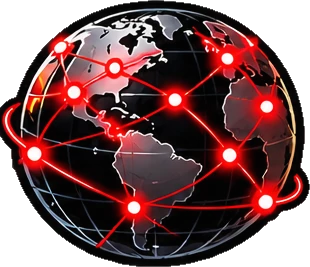
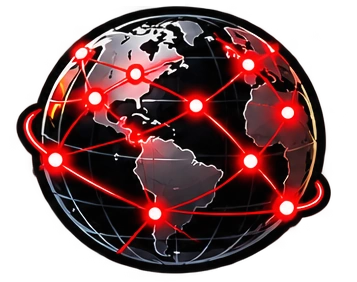
Seriell: Fotos früher/heute, neue Bildelemente, Übungen zu I²C und SPI
- Fotogalerie LPT, Druckerkabel, USB, IDE, SATA, PCI/PCIe von
  Wikimedia Commons mit Urheber und Lizenz
- Neue Bildelemente (Schilder, Stecker, Bits, Lanes, Takt, Nachrichten)
  samt Quellbögen
- PulseView-Mitschnitte vom Arbeitsblatt mit Aufgaben bei UART, I²C und SPI
- Lückentext zu den Formaten, Telegramm-Aufgabe, ASCII-Tabelle mit LF/CR
- Überarbeitete Bilder Globus, Ninja und Schloss

diff --git a/index.html b/index.html
@@ -85,7 +85,7 @@
     <!-- ============================ SERIELL 1 ============================ -->
     <section id="ser-grundlagen" class="page" data-theme="seriell">
       <header class="page-head">
-        <img class="head-art" src="assets/images/el-rolle.webp" alt="">
+        <div class="sr-head-pair" aria-hidden="true"><img src="assets/images/el-seriell-schild.webp" alt=""><img src="assets/images/el-parallel-schild.webp" alt=""></div>
         <p class="eyebrow">Seriell · Station 1 · Grundlagen</p>
         <h1>Seriell und parallel</h1>
         <p class="lead">Lange bevor es Netzwerke gab, wollte man zwei Geräte miteinander reden lassen: einen Computer mit einem Drucker, einem Modem oder einem Terminal. Dafür gibt es zwei Grundideen – die Bits <b>nacheinander</b> über eine Leitung schicken oder <b>gleichzeitig</b> über viele Leitungen. Von hier aus geht die Reise bis zum Ethernet.</p>
@@ -111,12 +111,14 @@
         <h2>Vor- und Nachteile</h2>
         <div class="two-col">
           <div class="mini-card">
+            <img class="sr-mc-art" src="assets/images/el-seriell.webp" alt="">
             <h3>Serielle Schnittstelle</h3>
             <p><b>Prinzip:</b> Die Bits werden <b>nacheinander</b> über eine Datenleitung (je Richtung) übertragen.</p>
             <p><b>Vorteile:</b> wenige Adern, dünne und billige Kabel, kleine Stecker, große Entfernungen möglich, kein Gleichlauf-Problem zwischen den Leitungen. Schnelle serielle Verbindungen sind außerdem <b>störfest</b>: Sie senden über ein verdrilltes Adernpaar, bei dem sich Störungen weitgehend aufheben, sichern die Daten mit Prüfsummen und senden Fehlerhaftes einfach neu.</p>
             <p><b>Nachteile:</b> Bei gleichem Takt braucht ein Zeichen mehrere Takte; die Bits müssen beim Sender in eine Reihe gebracht und beim Empfänger wieder zusammengesetzt werden (Schieberegister).</p>
           </div>
           <div class="mini-card">
+            <img class="sr-mc-art" src="assets/images/el-parallel.webp" alt="">
             <h3>Parallele Schnittstelle</h3>
             <p><b>Prinzip:</b> Mehrere Bits werden <b>gleichzeitig</b> über eigene Leitungen übertragen – z. B. 8 Bit auf 8 Leitungen.</p>
             <p><b>Vorteile:</b> Bei gleichem Takt ist ein ganzes Zeichen in einem Takt übertragen; einfache Elektronik.</p>
@@ -124,17 +126,54 @@
           </div>
         </div>
         <p class="callout"><b>Darum hat seriell gewonnen:</b> Eine einzelne Leitung lässt sich viel schneller takten als ein ganzes Bündel, das im Gleichschritt bleiben muss. USB, SATA, PCI Express, HDMI und Ethernet sind deshalb alle <b>seriell</b> – und schneller als ihre parallelen Vorgänger.</p>
-        <div class="tbl-wrap">
-          <table class="tbl compact">
-            <thead><tr><th>früher parallel</th><th>heute seriell</th></tr></thead>
-            <tbody>
-              <tr><td>Druckerschnittstelle LPT (Centronics, 25-polig)</td><td>USB</td></tr>
-              <tr><td>Festplatten über PATA/IDE (40 oder 80 Adern)</td><td>SATA, NVMe über PCI Express</td></tr>
-              <tr><td>Steckkarten über PCI (32 Bit breit)</td><td>PCI Express</td></tr>
-              <tr><td>Bildschirm über VGA (analog, je Farbe eine Leitung)</td><td>HDMI, DisplayPort</td></tr>
-            </tbody>
-          </table>
+        <h3 class="sub-h">So sah das aus: früher parallel – heute seriell</h3>
+        <p>Klicke ein Foto an, um es groß zu sehen.</p>
+        <div class="sr-gal">
+        <div class="sr-pair">
+          <h4>Drucker</h4>
+          <div class="sr-pair-row">
+            <figure class="sr-foto old">
+              <a href="assets/images/foto-lpt.webp" target="_blank" rel="noopener"><img src="assets/images/foto-lpt.webp" alt="25-polige LPT-Buchse an einem PC" width="640" height="480" loading="lazy"></a>
+              <figcaption><span class="sr-tags"><span class="sr-tag old">früher parallel</span></span><span class="sr-cap"><b>LPT-Buchse</b> am PC: 25 Pins, davon 8 Datenleitungen – höchstens etwa 2 MB/s.</span><small class="sr-credit">Foto: <a href="https://commons.wikimedia.org/wiki/File:Parallel_computer_printer_port.jpg" target="_blank" rel="noopener">Duncan Lithgow</a> · gemeinfrei · Wikimedia Commons</small></figcaption>
+            </figure>
+            <figure class="sr-foto old">
+              <a href="assets/images/foto-druckerkabel.webp" target="_blank" rel="noopener"><img src="assets/images/foto-druckerkabel.webp" alt="Druckerkabel mit 25-poligem Stecker und 36-poligem Centronics-Stecker" width="640" height="360" loading="lazy"></a>
+              <figcaption><span class="sr-tags"><span class="sr-tag old">früher parallel</span></span><span class="sr-cap"><b>Druckerkabel:</b> links der 25-polige Stecker für den PC, rechts der 36-polige <b>Centronics</b>-Stecker für den Drucker.</span><small class="sr-credit">Foto: <a href="https://commons.wikimedia.org/wiki/File:IEEE_1284_printer_cable,_type_AB-0135.jpg" target="_blank" rel="noopener">Raimond Spekking</a> · <a href="https://creativecommons.org/licenses/by-sa/4.0/deed.de" target="_blank" rel="noopener">CC BY-SA 4.0</a> · Wikimedia Commons</small></figcaption>
+            </figure>
+            <figure class="sr-foto new">
+              <a href="assets/images/foto-usb.webp" target="_blank" rel="noopener"><img src="assets/images/foto-usb.webp" alt="Anschlüsse an einem Laptop, rechts drei USB-Buchsen" width="640" height="356" loading="lazy"></a>
+              <figcaption><span class="sr-tags"><span class="sr-tag new">heute seriell</span></span><span class="sr-cap"><b>USB</b> (rechts im Bild): 4 Kontakte, die Daten laufen über ein einziges Adernpaar – mit USB 2.0 schon 480 Mbit/s.</span><small class="sr-credit">Foto: <a href="https://commons.wikimedia.org/wiki/File:Interfaces_on_left_side_of_Lenovo_ThinkPad_T410_laptop_-_VGA_connector,_Ethernet_port,_Display_port,_three_USB_2.0_ports_(cropped).jpg" target="_blank" rel="noopener">Pittigrilli</a> · <a href="https://creativecommons.org/publicdomain/zero/1.0/deed.de" target="_blank" rel="noopener">CC0</a> · Wikimedia Commons</small></figcaption>
+            </figure>
+          </div>
         </div>
+        <div class="sr-pair">
+          <h4>Festplatte</h4>
+          <div class="sr-pair-row">
+            <figure class="sr-foto old">
+              <a href="assets/images/foto-ide.webp" target="_blank" rel="noopener"><img src="assets/images/foto-ide.webp" alt="Zwei IDE-Flachbandkabel mit 40-poligen Steckern" width="640" height="845" loading="lazy" style="object-position:50% 30%"></a>
+              <figcaption><span class="sr-tags"><span class="sr-tag old">früher parallel</span></span><span class="sr-cap"><b>IDE-Flachbandkabel</b> (PATA) mit 40-poligen Steckern: links 80 Adern, rechts 40 Adern. Bei den schnelleren 80-adrigen Kabeln liegt zwischen den Signaladern je eine Masseader – gegen das Übersprechen. Höchstens 133 MB/s.</span><small class="sr-credit">Foto: <a href="https://commons.wikimedia.org/wiki/File:IDE_cable_40_pin_%26_80_pin.jpg" target="_blank" rel="noopener">Smial</a> · <a href="https://creativecommons.org/licenses/by-sa/2.0/de/" target="_blank" rel="noopener">CC BY-SA 2.0 DE</a> · Wikimedia Commons</small></figcaption>
+            </figure>
+            <figure class="sr-foto new">
+              <a href="assets/images/foto-sata.webp" target="_blank" rel="noopener"><img src="assets/images/foto-sata.webp" alt="Festplatte mit angestecktem SATA-Daten- und Stromkabel" width="640" height="583" loading="lazy" style="object-position:50% 80%"></a>
+              <figcaption><span class="sr-tags"><span class="sr-tag new">heute seriell</span></span><span class="sr-cap"><b>SATA</b>: Das schmale rote Kabel trägt die Daten, nur 7 Kontakte – und schafft bis 600 MB/s. Der breite Stecker daneben ist der Strom.</span><small class="sr-credit">Foto: <a href="https://commons.wikimedia.org/wiki/File:Serial_ATA_hard_disk_connected.jpg" target="_blank" rel="noopener">Thomas Rosenau</a> · <a href="https://creativecommons.org/licenses/by-sa/2.5/deed.de" target="_blank" rel="noopener">CC BY-SA 2.5</a> · Wikimedia Commons</small></figcaption>
+            </figure>
+            <figure class="sr-foto new">
+              <a href="assets/images/foto-sata-innen.webp" target="_blank" rel="noopener"><img src="assets/images/foto-sata-innen.webp" alt="Aufgeschnittenes SATA-Kabel mit zwei abgeschirmten Adernpaaren" width="640" height="960" loading="lazy" style="object-position:50% 20%"></a>
+              <figcaption><span class="sr-tags"><span class="sr-tag new">heute seriell</span></span><span class="sr-cap"><b>SATA-Kabel aufgeschnitten:</b> Innen stecken nur zwei abgeschirmte Adernpaare – eins pro Richtung – und drei Masseadern.</span><small class="sr-credit">Foto: <a href="https://commons.wikimedia.org/wiki/File:Serial_ATA_cable_cut_off_to_show_the_inside.jpg" target="_blank" rel="noopener">Tobias Maier</a> · <a href="https://creativecommons.org/licenses/by-sa/3.0/deed.de" target="_blank" rel="noopener">CC BY-SA 3.0</a> · Wikimedia Commons</small></figcaption>
+            </figure>
+          </div>
+        </div>
+        <div class="sr-pair">
+          <h4>Steckkarten</h4>
+          <div class="sr-pair-row">
+            <figure class="sr-foto old new">
+              <a href="assets/images/foto-pci-pcie.webp" target="_blank" rel="noopener"><img src="assets/images/foto-pci-pcie.webp" alt="Mainboard mit PCIe-x1-, PCIe-x16- und zwei PCI-Steckplätzen" width="640" height="480" loading="lazy"></a>
+              <figcaption><span class="sr-tags"><span class="sr-tag old">früher parallel</span> <span class="sr-tag new">heute seriell</span></span><span class="sr-cap">Beide auf einem Mainboard: unten zwei weiße <b>PCI</b>-Steckplätze (32 Bit parallel, 133 MB/s für alle Karten zusammen), oben gelb <b>PCIe x1</b> und <b>PCIe x16</b> mit 1 bzw. 16 seriellen Lanes.</span><small class="sr-credit">Foto: <a href="https://commons.wikimedia.org/wiki/File:PCI_und_PCIe_Slots.jpg" target="_blank" rel="noopener">Smial</a> · <a href="https://creativecommons.org/licenses/by-sa/2.0/de/" target="_blank" rel="noopener">CC BY-SA 2.0 DE</a> · Wikimedia Commons</small></figcaption>
+            </figure>
+          </div>
+        </div>
+        </div>
+        <p class="note">Die Fotos stammen von Wikimedia Commons und wurden für diese Seite verkleinert. Urheber und Lizenz stehen jeweils unter dem Bild.</p>
         <h3 class="sub-h">Wo ist parallel heute noch im Einsatz?</h3>
         <p>Fast nur noch auf <b>sehr kurzen Wegen innerhalb eines Geräts</b>, wo man die Leiterbahnen genau gleich lang verlegen kann:</p>
         <div class="tbl-wrap">
@@ -151,6 +190,7 @@
           </table>
         </div>
         <p class="note">Beim Arbeitsspeicher hilft noch mehr: Jede Gruppe von 8 Datenbits bekommt ein eigenes Taktsignal mit (DQS), und beim Einschalten misst der Speichercontroller die Laufzeit jeder einzelnen Leitung und gleicht sie aus.</p>
+        <img class="sr-sub-art" src="assets/images/el-lanes.webp" alt="">
         <h3 class="sub-h">Parallel genutzt, aber seriell: Lanes</h3>
         <p>PCI Express x16, Thunderbolt oder 100-Gbit-Ethernet nutzen mehrere <b>Lanes</b> gleichzeitig nebeneinander – man spricht deshalb auch von <b>parallel genutzten seriellen Lanes</b>. Als Schnittstelle gelten sie trotzdem als <b>seriell</b>. Der Unterschied liegt darin, wie die Bits zusammengehalten werden:</p>
         <div class="two-col">
@@ -237,7 +277,7 @@
     <!-- ============================ SERIELL 2 ============================ -->
     <section id="ser-rs232" class="page" data-theme="seriell">
       <header class="page-head">
-        <img class="head-art" src="assets/images/el-kabel.webp" alt="">
+        <img class="head-art" src="assets/images/el-seriell.webp" alt="">
         <p class="eyebrow">Seriell · Station 2 · Interaktiv</p>
         <h1>RS-232</h1>
         <p class="lead"><b>RS-232</b> (heute TIA-232) legt fest, wie eine serielle Verbindung elektrisch aussieht: welche Spannungen, welche Leitungen, welcher Stecker. Am PC hieß sie <b>COM-Schnittstelle</b>. Heute steckt sie noch in Maschinen, Messgeräten und SPS – und als <b>Konsolen-Anschluss</b> an Switches und Routern.</p>
@@ -318,7 +358,7 @@
     <!-- ============================ SERIELL 3 ============================ -->
     <section id="ser-uart" class="page" data-theme="seriell">
       <header class="page-head">
-        <img class="head-art" src="assets/images/el-leitungscode.webp" alt="">
+        <img class="head-art" src="assets/images/el-bits-seriell.webp" alt="">
         <p class="eyebrow">Seriell · Station 3 · Interaktiv</p>
         <h1>Das UART-Telegramm</h1>
         <p class="lead">Der <b>UART</b> (Universal Asynchronous Receiver Transmitter) ist der Baustein, der ein Byte in eine Reihe von Bits verwandelt und beim Empfänger wieder zusammensetzt. Fast jeder Mikrocontroller hat einen eingebaut. „Asynchron“ heißt: Es gibt <b>keine Taktleitung</b> – das Startbit sagt dem Empfänger, wann es losgeht.</p>
@@ -375,7 +415,8 @@
         <p class="note">Die Parität erkennt jeden <b>einzelnen</b> Bitfehler – kippen zwei Bits, passt die Zahl der Einsen wieder und der Fehler bleibt unentdeckt. Korrigieren kann sie nichts: Der Empfänger weiß nur, <i>dass</i> etwas falsch ist, nicht <i>welches</i> Bit.</p>
       </article>
 
-      <article class="card">
+      <article class="card has-art">
+        <img class="card-art" src="assets/images/el-taktperiode.webp" alt="">
         <h2>Übungen vom Arbeitsblatt</h2>
         <p class="sr-ws-task"><b>Aufgabe 1:</b> Ein Datentelegramm besteht aus 16 Datenbits, 2 Stoppbits, 1 Paritätsbit und einem Startbit. Wie viele Telegramme können bei <b>57 600 Baud</b> pro Sekunde übertragen werden?</p>
         <details class="v6-more"><summary>Lösung Aufgabe 1</summary>
@@ -396,7 +437,7 @@
     <!-- ============================ SERIELL 4 ============================ -->
     <section id="ser-i2c" class="page" data-theme="seriell">
       <header class="page-head">
-        <img class="head-art" src="assets/images/el-topo-rolle.webp" alt="">
+        <img class="head-art" src="assets/images/el-takt.webp" alt="">
         <p class="eyebrow">Seriell · Station 4 · Interaktiv</p>
         <h1>I²C – Adressen auf zwei Drähten</h1>
         <p class="lead"><b>I²C</b> (Inter-Integrated Circuit, gesprochen „I-Quadrat-C“) hat Philips 1982 entwickelt, um viele Chips auf einer Platine zu verbinden. Zwei Leitungen reichen für alle: Jeder Teilnehmer hat eine eigene <b>Adresse</b>. Und weil eine Leitung den <b>Takt</b> trägt, arbeitet I²C <b>synchron</b>.</p>
@@ -462,7 +503,7 @@
     <!-- ============================ SERIELL 5 ============================ -->
     <section id="ser-spi" class="page" data-theme="seriell">
       <header class="page-head">
-        <img class="head-art" src="assets/images/el-server.webp" alt="">
+        <img class="head-art wide" src="assets/images/el-nachrichten.webp" alt="">
         <p class="eyebrow">Seriell · Station 5 · Interaktiv</p>
         <h1>SPI und der Weg zum Netz</h1>
         <p class="lead">Das <b>Serial Peripheral Interface</b> (SPI) stammt von Motorola. Es verwendet <b>vier Leitungen</b>, arbeitet synchron und vollduplex und schafft je nach Chip einige bis über 50 Mbit/s. Statt Adressen gibt es eine eigene Leitung, die einen Teilnehmer auswählt.</p>
@@ -2863,7 +2904,7 @@ Ablaufverfolgung beendet.</pre>
 
   <footer class="site-footer">
     <img class="footer-art" src="assets/images/el-bonsai.webp" alt="">
-    <p>Quellen: <a href="https://www.rfc-editor.org/info/rfc791/" target="_blank" rel="noopener">RFC 791</a> (Internet Protocol, 1981) · <a href="https://www.rfc-editor.org/info/rfc950/" target="_blank" rel="noopener">RFC 950</a> (Subnetting, 1985) · <a href="https://www.rfc-editor.org/info/rfc4632/" target="_blank" rel="noopener">RFC 4632</a> (CIDR) · <a href="https://www.rfc-editor.org/info/rfc1918/" target="_blank" rel="noopener">RFC 1918</a> (Private Adressen, 1996) · <a href="https://www.rfc-editor.org/info/rfc3927/" target="_blank" rel="noopener">RFC 3927</a> (APIPA/Link-Local) · <a href="https://www.rfc-editor.org/info/rfc6890/" target="_blank" rel="noopener">RFC 6890</a> (Besondere Adressbereiche) · <a href="https://www.rfc-editor.org/info/rfc2131/" target="_blank" rel="noopener">RFC 2131</a> (DHCP) · <a href="https://www.rfc-editor.org/info/rfc1034/" target="_blank" rel="noopener">RFC 1034</a> (DNS) · <a href="https://www.rfc-editor.org/info/rfc3986/" target="_blank" rel="noopener">RFC 3986</a> (URI) · <a href="https://www.rfc-editor.org/info/rfc6335/" target="_blank" rel="noopener">RFC 6335</a> (Portbereiche) · <a href="https://www.rfc-editor.org/info/rfc8446/" target="_blank" rel="noopener">RFC 8446</a> (TLS 1.3) · <a href="https://www.nxp.com/docs/en/user-guide/UM10204.pdf" target="_blank" rel="noopener">NXP UM10204</a> (I²C-Spezifikation) · TIA-232-F (serielle Schnittstelle)</p>
+    <p>Quellen: <a href="https://www.rfc-editor.org/info/rfc791/" target="_blank" rel="noopener">RFC 791</a> (Internet Protocol, 1981) · <a href="https://www.rfc-editor.org/info/rfc950/" target="_blank" rel="noopener">RFC 950</a> (Subnetting, 1985) · <a href="https://www.rfc-editor.org/info/rfc4632/" target="_blank" rel="noopener">RFC 4632</a> (CIDR) · <a href="https://www.rfc-editor.org/info/rfc1918/" target="_blank" rel="noopener">RFC 1918</a> (Private Adressen, 1996) · <a href="https://www.rfc-editor.org/info/rfc3927/" target="_blank" rel="noopener">RFC 3927</a> (APIPA/Link-Local) · <a href="https://www.rfc-editor.org/info/rfc6890/" target="_blank" rel="noopener">RFC 6890</a> (Besondere Adressbereiche) · <a href="https://www.rfc-editor.org/info/rfc2131/" target="_blank" rel="noopener">RFC 2131</a> (DHCP) · <a href="https://www.rfc-editor.org/info/rfc1034/" target="_blank" rel="noopener">RFC 1034</a> (DNS) · <a href="https://www.rfc-editor.org/info/rfc3986/" target="_blank" rel="noopener">RFC 3986</a> (URI) · <a href="https://www.rfc-editor.org/info/rfc6335/" target="_blank" rel="noopener">RFC 6335</a> (Portbereiche) · <a href="https://www.rfc-editor.org/info/rfc8446/" target="_blank" rel="noopener">RFC 8446</a> (TLS 1.3) · <a href="https://www.nxp.com/docs/en/user-guide/UM10204.pdf" target="_blank" rel="noopener">NXP UM10204</a> (I²C-Spezifikation) · TIA-232-F (serielle Schnittstelle) · Fotos der Stecker: Wikimedia Commons, Urheber und Lizenz am jeweiligen Bild</p>
     <p>Netzwerktechnik-Dojo · Jakob-Preh-Schule · statische HTML-Seite, läuft komplett im Browser – keine Daten werden übertragen, keine externen Dienste geladen.</p>
   </footer>
 

diff --git a/assets/style.css b/assets/style.css
@@ -1930,3 +1930,33 @@ td.kr-no { color: var(--host); font-weight: 600; }
 .sr-pv-nack { fill: color-mix(in srgb, var(--err) 30%, var(--surface)); stroke: var(--err); stroke-width: 1; }
 .sr-pv-mosi { fill: color-mix(in srgb, var(--accent) 22%, var(--surface)); stroke: var(--accent); stroke-width: 1; }
 .sr-ws-intro { margin-top: 1.4rem; }
+/* Fotos früher parallel – heute seriell */
+.sr-gal { display: grid; gap: 1.2rem; margin: .6rem 0 .4rem; }
+.sr-pair h4 { margin: 0 0 .5rem; font: 700 14px var(--display); }
+.sr-pair-row { display: grid; grid-template-columns: repeat(auto-fit, minmax(220px, 1fr)); gap: 12px; }
+.sr-foto { margin: 0; background: var(--surface-2); border-radius: 10px; overflow: hidden; display: flex; flex-direction: column; }
+.sr-foto.old { box-shadow: inset 0 3px 0 var(--accent-2); }
+.sr-foto.new { box-shadow: inset 0 3px 0 var(--net); }
+.sr-foto.old.new { box-shadow: none; grid-column: 1 / -1; }
+.sr-foto > a { display: block; line-height: 0; }
+.sr-foto img { width: 100%; height: 200px; object-fit: cover; display: block; background: #fff; }
+.sr-foto.old.new img { height: auto; max-height: 420px; object-fit: contain; }
+.sr-foto figcaption { padding: .55rem .8rem .7rem; font-size: 13.5px; line-height: 1.5; display: flex; flex-direction: column; gap: .25rem; flex: 1; }
+.sr-tag { align-self: flex-start; font: 600 10px var(--mono); text-transform: uppercase; letter-spacing: .06em; border-radius: 5px; padding: 1px 7px; margin-right: 4px; display: inline-block; }
+.sr-tag.old { background: color-mix(in srgb, var(--accent-2) 22%, var(--surface)); color: var(--accent-2); }
+.sr-tag.new { background: var(--info-bg); color: var(--net); }
+.sr-foto.old.new figcaption .sr-tag { align-self: auto; }
+.sr-credit { margin-top: auto; padding-top: .3rem; font-size: 11px; color: var(--muted); }
+.sr-credit a { color: inherit; }
+.sr-tags { display: flex; flex-wrap: wrap; gap: 4px; }
+.sr-tags .sr-tag { margin: 0; }
+.sr-foto.old.new img { background: transparent; }
+.sr-sub-art { float: right; height: 96px; width: auto; margin: 1rem 0 6px 16px; }
+@media (max-width: 600px) { .sr-sub-art { height: 64px; } }
+.sr-head-pair { position: absolute; right: 0; top: 18px; display: flex; align-items: flex-end; gap: 10px; pointer-events: none; }
+.sr-head-pair img { height: 118px; width: auto; }
+@media (max-width: 1120px) { .sr-head-pair { position: static; justify-content: center; margin: 0 0 .6rem; } .sr-head-pair img { height: 110px; } }
+@media (max-width: 600px) { .sr-head-pair img { height: 84px; } }
+.sr-mc-art { float: right; height: 84px; width: auto; margin: -4px -4px 6px 12px; }
+@media (max-width: 600px) { .sr-mc-art { height: 64px; } }
+.head-art.wide { height: 100px; top: 40px; }

diff --git a/README.md b/README.md
@@ -17,7 +17,7 @@ pro Sekunde, nur bei zwei Pegeln gleich Bit/s.
 
 | # | Station | Inhalt |
 |---|---------|--------|
-| 1 | Seriell & parallel | Ein Zeichen seriell und parallel Takt für Takt, Laufzeitunterschiede bei hohem Takt, Vor- und Nachteile, früher parallel/heute seriell, uni- und bidirektional, Bus am Beispiel KNX und was ein Bus regeln muss, Zeitleiste |
+| 1 | Seriell & parallel | Ein Zeichen seriell und parallel Takt für Takt, Laufzeitunterschiede bei hohem Takt, Vor- und Nachteile, Fotos früher parallel/heute seriell (LPT, Druckerkabel, USB, IDE, SATA, PCI/PCIe), wo parallel heute noch steckt, Lanes, uni- und bidirektional, Bus am Beispiel KNX und was ein Bus regeln muss, Zeitleiste |
 | 2 | RS-232 | DE-9-Stecker mit klickbaren Pins (Datenleitungen 2, 3, 5), Pegel UART gegen RS-232, Nullmodem und 1:1-Kabel, Formatkürzel wie 8N1, Baud |
 | 3 | UART-Telegramm | UART vs. RS-232, Telegramm-Baukasten (Datenbits, Parität, Stoppbits, Baudrate) mit Bitzeit und Telegrammen pro Sekunde, MSB/LSB, Paritätsbit mit Störungs-Simulation, Übungen vom Arbeitsblatt: Telegramme pro Sekunde, Mitschnitte im Stil von PulseView (Baudrate aus 104 µs, „a?“ / „ok“ dekodieren) |
 | 4 | I²C | Bus mit Pull-ups und Teilnehmern, Adressierung als SCL/SDA-Signal mit ACK/NACK, Übung zum PulseView-Mitschnitt vom Arbeitsblatt (0x08, NACK, Datenrate aus 10 µs), 112 Adressen, Geschwindigkeiten |
@@ -186,7 +186,8 @@ assets/ipv6.js        IPv6-Rechenkern (parsen, kürzen, Typ, Präfix, EUI-64)
 assets/ipv6-stationen.js  IPv6 Stationen 1–4
 assets/ipv6-dojo.js   IPv6 Station 5
 assets/images/        Gürtelbilder aus Netzwerkkabel (guertel-<farbe>.png), Dojo-Tor als Rahmen
-                      (rahmen.webp) und Illustrationen der Stationen (el-*.webp)
+                      (rahmen.webp), Illustrationen der Stationen (el-*.webp) und Fotos von
+                      Wikimedia Commons (foto-*.webp, siehe Quellen)
 assets/images/tor/    Einzelteile des Seitenrahmens und Blütenblätter
 ```
 
@@ -211,3 +212,17 @@ Das Schullogo (`assets/jps-logo.png`) gehört der Jakob-Preh-Schule.
 - [RFC 8446](https://www.rfc-editor.org/info/rfc8446/) – TLS 1.3
 - [NXP UM10204](https://www.nxp.com/docs/en/user-guide/UM10204.pdf) – I²C-Bus Specification and User Manual
 - TIA-232-F – Interface Between Data Terminal Equipment and Data Circuit-Terminating Equipment
+
+### Fotos (Wikimedia Commons, für die Seite verkleinert)
+
+| Datei | Original | Urheber | Lizenz |
+|---|---|---|---|
+| foto-lpt.webp | [Parallel computer printer port.jpg](https://commons.wikimedia.org/wiki/File:Parallel_computer_printer_port.jpg) | Duncan Lithgow | gemeinfrei |
+| foto-druckerkabel.webp | [IEEE 1284 printer cable, type AB-0135.jpg](https://commons.wikimedia.org/wiki/File:IEEE_1284_printer_cable,_type_AB-0135.jpg) | Raimond Spekking | CC BY-SA 4.0 |
+| foto-usb.webp | [Interfaces on left side of Lenovo ThinkPad T410 laptop … (cropped).jpg](https://commons.wikimedia.org/wiki/File:Interfaces_on_left_side_of_Lenovo_ThinkPad_T410_laptop_-_VGA_connector,_Ethernet_port,_Display_port,_three_USB_2.0_ports_(cropped).jpg) | Pittigrilli | CC0 |
+| foto-ide.webp | [IDE cable 40 pin & 80 pin.jpg](https://commons.wikimedia.org/wiki/File:IDE_cable_40_pin_%26_80_pin.jpg) | Smial | CC BY-SA 2.0 DE |
+| foto-sata.webp | [Serial ATA hard disk connected.jpg](https://commons.wikimedia.org/wiki/File:Serial_ATA_hard_disk_connected.jpg) | Thomas Rosenau | CC BY-SA 2.5 |
+| foto-sata-innen.webp | [Serial ATA cable cut off to show the inside.jpg](https://commons.wikimedia.org/wiki/File:Serial_ATA_cable_cut_off_to_show_the_inside.jpg) | Tobias Maier | CC BY-SA 3.0 |
+| foto-pci-pcie.webp | [PCI und PCIe Slots.jpg](https://commons.wikimedia.org/wiki/File:PCI_und_PCIe_Slots.jpg) | Smial | CC BY-SA 2.0 DE |
+
+Die verkleinerten Fassungen der CC-BY-SA-Fotos stehen unter derselben Lizenz wie das jeweilige Original.
